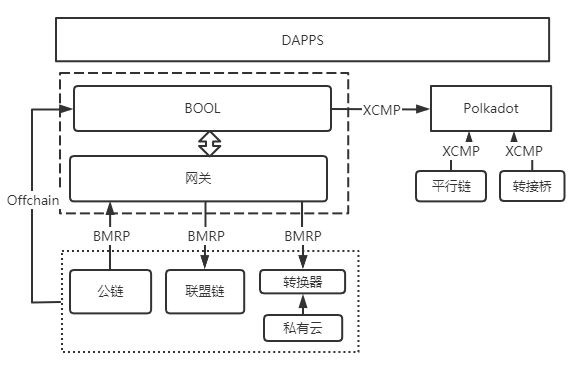
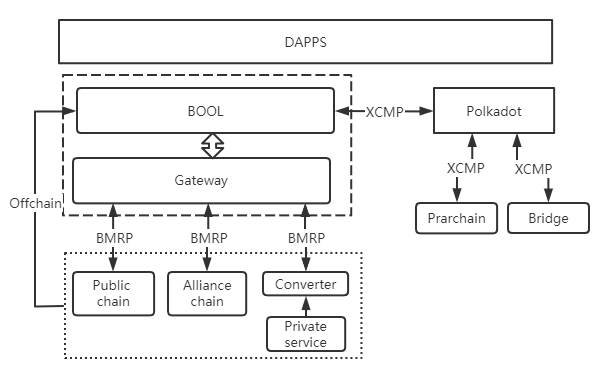
Improve

Changed region(s): [[0.0, 0.0293, 0.9965, 0.968]]

diff --git a/website/docs/introduction/tss.md b/website/docs/introduction/tss.md
@@ -4,7 +4,40 @@ title: Threshold Signature
 sidebar_label: Threshold Signature
 ---
 
-At present, there are two main modes in the cross chain scheme: light node and multi sign. The multi signature mode can effectively avoid the problems of too centralized authority and the project side doing evil. However, the multi signature scheme needs the support of chain virtual machine, which requires high requirements for the chain signature algorithm and poor universality. The scalability of light node mode is seriously insufficient. When multi chain and cross chain are involved, light nodes of corresponding chains need to be realized. Therefore, we introduce a threshold signature protocol to remedy the above defects.
+At present, there are two main modes in the cross-chain scheme: light node and multi sign. The multi signature mode can effectively avoid the problems of too centralized authority and the project side doing evil. However, the multi signature scheme needs the support of chain virtual machine, which requires high requirements for the chain signature algorithm and poor universality. The scalability of light node mode is seriously insufficient. When multi chain and cross-chain are involved, light nodes of corresponding chains need to be realized. Therefore, we introduce a threshold signature protocol to remedy the above defects.
 
-Threshold signature is a multi-party secure computing protocol, which is composed of threshold secret sharing technology and digital signature. Bool platform is a cross link gateway based on threshold signature protocol. How does token cross chain work on the platform? The relay chain selects a group of nodes to participate in secret sharing to generate shared private keys. The cross link behaviors of users on the sub chain are collected by the gateway and then routed to the target chain. The cross chain operation of token has two layers: mapping and redemption. Mapping can be understood as locking the token of sub chain on the public account, otherwise redemption is releasing the token on the public account. A simple AB heterogeneous chain token conversion process, cross chain events on a chain are monitored by the gateway, and the gateway forms a consensus and signs the event, and submits the event to the relay chain; on the relay chain, the operation logic of routing, verification and exchange will be automatically executed; finally, the events in the chain monitored by the gateway are submitted to the B chain after the internal consensus and signature.
+Threshold signature is a multi-party secure computing protocol, which is composed of threshold secret sharing technology and digital signature. BOOL Network platform is a cross-chain gateway based on threshold signature protocol. How does token cross-chain work on the platform? The relay chain selects a group of nodes to participate in secret sharing to generate shared private keys. The cross-chain behaviors of users on the sub-chain are collected by the gateway and then routed to the target chain. The cross-chain operation of token has two layers: mapping and redemption. Mapping can be understood as locking the token of sub-chain on the public account, otherwise redemption is releasing the token on the public account. A simple AB heterogeneous chain token conversion process, cross-chain events on a chain are monitored by the gateway, and the gateway forms a consensus and signs the event, and submits the event to the relay chain; on the relay chain, the operation logic of routing, verification and exchange will be automatically executed; finally, the events in the chain monitored by the gateway are submitted to the B chain after the internal consensus and signature.
 
+## Withdrawal mechanism
+
+The function of the threshold node is to save the private key, which determines the assets. We all know that threshold signature can implement (T, N) mode. There are n nodes in total. When the number of participating nodes is greater than T + 1, they can sign together. As the threshold node exits, it will inevitably reach a certain state, that is, it can not reach the minimum threshold T of the signature. We can think that the private key is lost, so the design of the threshold node exit mechanism is very careful.
+
+The ideal situation is that the threshold node will never exit, because of various force majeure, the so-called "ideal". When threshold nodes form a (T, N) set, theoretically, M (N-T-1) nodes are allowed to exit, so that the remaining nodes can ensure the normal operation of the algorithm. The more secure way is to transfer the production data to other threshold nodes and make the old production materials invalid. In this way, the number of threshold nodes in n set is maintained, and the **private key fragment transfer protocol** is designed. If node a exits, the algorithm randomly selects the threshold node B in the non-N set. Through the encryption channel, the private key of node a will be transferred to node B. after that, node a will no longer be selected as the signature node by the algorithm.
+
+Several states of threshold node:
+
+1. Offline status: the mortgage has been fined and there is no mortgage.
+
+2. Standby status: sufficient mortgage and no private key escrow.
+
+3. Operation status: sufficient mortgage and private key escrow.
+
+4. Exit status: the private key will no longer be assigned when applying for exit.
+
+The nodes in offline state and exit state will not be selected as signature nodes by the algorithm.
+
+## Key fragment transfer protocol
+
+Private key transfer protocol: node a wants to transfer the private key s to node B. A and B can first conduct a key exchange to suggest the same shared key K. then a uses a symmetric encryption algorithm AES to encrypt s, and then sends it to B. after getting the ciphertext, B uses the previously established shared key K to decrypt s.
+
+Specific agreement:
+
+1. Key exchange:
+
+Common parameter: P: large prime, integer set z = {2,3,4 P-2}, G: integers within Z.
+
+![keyExchangeStep1]()
+
+2. Using AES algorithm to transfer private key:
+
+![keyExchangeStep2]()

diff --git a/website/docs/introduction/main.md b/website/docs/introduction/main.md
@@ -4,9 +4,9 @@ title: Platform architecture
 sidebar_label: Platform architecture
 ---
 
-BOOL Network is a trustless and decentralized cross-chain gateway platform. It like a Oracle which combining threshold signature technology and blockchain technology. It is used to solve the cross chain problem of heterogeneous chain.
+BOOL Network is a trustless and decentralized cross-chain gateway platform. It like a Oracle which combining threshold signature technology and blockchain technology. It is used to solve the cross-chain problem of heterogeneous chain.
 
-Based on the cross chain requirements, a general inter chain message routing protocol, bmrp is designed(blockchain message router protocol) that aims to provide a unified cross chain message transmission specification, and eliminate the obstacles of cross chain message mutual authentication caused by different consensus algorithm, account structure and encryption mechanism.
+Based on the cross-chain requirements, a general inter chain message routing protocol, BMRP is designed(blockchain message router protocol) that aims to provide a unified cross-chain message transmission specification, and eliminate the obstacles of cross-chain message mutual authentication caused by different consensus algorithm, account structure and encryption mechanism.
 
 ![architecture](/img/architecture.png)
 
@@ -14,8 +14,8 @@ Based on the cross chain requirements, a general inter chain message routing pro
 
 * BOOL chain: responsible for on chain governance, threshold node maintenance, routing rule configuration, and sub-chain configuration. In order to ensure the safety of the chain, high availability should be taken into account.
 
-* Gateway: the core element of gateway bmrp, it is a component that adapts to multiple chains, and can collect data on various chains. It mainly maintains the external message order. It is composed of consensus component, acquisition component and threshold component. The collection component is composed of a general multi link library and a standard agent. The multi link library provides the ability to read and write different blockchain data, and is an essential tool for accessing Web3 services. The standard proxy library is to package the centralized service into a block chain like structure based on the public-private key management mechanism, so that it can access to the collection component.
+* Gateway: the core element of BMRP, it is a component that adapts to multiple chains, and can collect data on various chains. It mainly maintains the external message order. It is composed of consensus component, collection component and threshold component. The collection component is composed of a general multi-chain library and a standard agent. The multi-chain library provides the ability to read and write different blockchain data, and is an essential tool for accessing Web3 services. The standard proxy library is to package the centralized service into a block chain like structure based on the public-private key management mechanism, so that it can access to the collection component.
 
-* Sub-chain: a sub-chain is a blockchain registered on the relay chain. It can be a federation chain, a public chain, or even a centralized service after being accessed through a sub-chain converter. This is similar to cosmos.
+* Sub-chain: a sub-chain is a blockchain registered on the relay chain. It can be a federation chain, a public chain, or even a centralized service after being accessed through a sub-chain converter. This is similar to COSMOS.
 
 * Parachain: BOOL Network is developed on the basis of substrate framework, which is in the Polkadot system and can be used as parachain.

diff --git a/website/docs/introduction/node.md b/website/docs/introduction/node.md
@@ -4,12 +4,20 @@ title: Node type
 sidebar_label: Node Type
 ---
 
-There are three main contributors of blockchain data, i.e., the creation block, the external message and the internal transaction.
+There are three main contributors of blockchain data, i.e., the genesis block, the external message and the internal transaction.
 
-The whole node is used to record data, which can be regarded as a backup database. Its main responsibility is to synchronously verify the blocks produced by the node and execute external data. Users can query the current information or recent historical data through the whole node, deploy the whole node, and the application can directly interact with the whole node without the third-party infrastructure. In addition, the whole node can open the archive mode, that is, all the historical blocks and status trees are maintained. In the archive mode, all historical data from the creation block can be queried. For example, a block browser may query the historical data on the chain.
+## Full node
+
+The full node is used to record data, which can be regarded as a backup database. Its main responsibility is to synchronously verify the blocks produced by the node and execute external data. Users can query the current information or recent historical data through the full node. deploy the full node, and the application can directly interact with the full node without the third-party infrastructure. In addition, the full node can open the archive mode, that is, all the historical blocks and status trees are maintained. In the archive mode, all historical data from the genesis block can be queried. For example, a block browser may query the historical data on the chain.
+
+## Verification node
 
 The verification node is first a full node, which can verify all the information in the chain. Secondly, the verifier information is registered on the chain to participate in the consensus mechanism, which can produce blocks. All illegal behaviors will be punished to reduce the BOL of the verifier's mortgage; for the legal verifier, rewards will be given, and the verification node will accept the block reward and handling fee.
 
-The threshold node contains the function of the whole node. It needs to access the data on the chain and update the status under the chain in real time. Threshold node is an important element of high availability and high security gateway, and it is also the only entrance of external data link. The threshold nodes must be able to communicate with each other, which is the basis of the threshold signature algorithm. At the same time, it can access the sub chain information in real time, which can effectively identify malicious threshold nodes.
+## Threshold node
+
+The threshold node contains the function of the full node. It needs to access the data on the chain and update the status under the chain in real time. Threshold node is an important element of high availability and high security gateway, and it is also the only entrance of external data link. The threshold nodes must be able to communicate with each other, which is the basis of the threshold signature algorithm. At the same time, it can access the sub-chain information in real time, which can effectively identify malicious threshold nodes.
+
+## Light node
 
 Another type is light node. The light node only stores the current state and does not store historical information, so it cannot recover the complete chain from the creation block. Light nodes are used for special devices, such as mobile phones.

diff --git a/website/docs/introduction/bmrp.md b/website/docs/introduction/bmrp.md
@@ -4,15 +4,16 @@ title: Blockchain Message Router Protocol
 sidebar_label: Blockchain Message Router Protocol
 ---
 
-In the blockchain paradigm, asymmetric encryption is usually used to ensure the security of assets. Private key signature is required to modify the status on the blockchain. In the public chain architecture, in order to prevent DoS attacks, the cost mechanism is introduced. However, this brings about the difficulty of handling fee clearing caused by different asset values across message chains on different blockchains. Through the introduction of resource free trading mechanism, we can achieve real-time clearing of cross chain message costs, without human intervention, and system access to asset balance.
+In the blockchain paradigm, asymmetric encryption is usually used to ensure the security of assets. Private key signature is required to modify the status on the blockchain. In the public chain architecture, in order to prevent DoS attacks, the cost mechanism is introduced. However, this brings about the difficulty of handling fee clearing caused by different asset values across message chains on different chains. Through the introduction of resource free trading mechanism, we can achieve real-time clearing of cross-chain message costs, without human intervention, and system access to asset balance.
 
 At the same time, considering the difference of verification methods caused by different account book structure and encryption mechanism, we designed the following cross link protocol to facilitate the verification of relay chain.
 
 Protocol field:
+
 * `Version`:Protocol version.
 * `From`: Cross-chain message source gate.
 * `To`: Cross-chain message target gate.
 * `Action`: Operation content. like (name + params).  Should register in router.
     - `name` type: There are two type,The execution class is used to perform operations on the target chain; the asset class is used for asset swap.
 * `Timestamp`： the time when the message operation on the chain was generated.
-* `Fee`：<option> For this cross link message, the relay chain agent is allowed to deduct the cost. It consists of (account + amount).
+* `Fee`：<option> For this cross-chain message, the relay chain agent is allowed to deduct the cost. It consists of (account + amount).

diff --git a/website/docs/introduction/gateway.md b/website/docs/introduction/gateway.md
@@ -13,3 +13,30 @@ The gateway should meet the following functions:
 2. Forward the signed data to the corresponding blockchain;
 
 3. Support received and executed request status query on blockchain.
+
+
+![gatewayRouter](/img/gateway_router.png)
+
+The gateway is mainly composed of four parts: collection, routing rules, consensus algorithm and threshold signature. The consensus and signature module share the point-to-point communication protocol, and the collection module obtains the sub-chain information through RPC.
+
+A common message forwarding process is as follows:
+
+1) The collection module captures the sub-chain information M according to the configuration.
+
+2) M information is pushed to the routing module. The routing module parses and converts the M information, M -> N.
+
+3) N message is pushed to consensus and threshold signature module.
+
+4) Consensus module broadcast N message to nodes through Libp2p.
+
+5) Libp2p receives the broadcast information and returns it to the consensus module.
+
+6) After reaching a consensus on CN message, push it to the threshold signature module, N -> CN.
+
+7) The threshold signature module signs CN messages and broadcasts them through Libp2p.
+
+8) Libp2p returns the received distributed signature information to the threshold signature module.
+
+9) After several rounds of interaction, the final signature result is pushed to the acquisition module, CN -> SCN.
+
+10) The collection module links the signed information.

diff --git a/website/docs/economics/slash.md b/website/docs/economics/slash.md
@@ -4,6 +4,6 @@ title: Reward & Slash
 sidebar_label: Reward & Slash
 ---
 
-The reward and slash mechanism plays an important role in the long-term operation of the whole system. Boolnetwork reward sources mainly include verifier reward, which includes two parts: block out and verification; nominator reward, which is supported by mortgage token; private key management reward, obtained by maintaining TSS node. Among them, verifier reward and nominator reward follow polkadot NPOS mechanism, and private key management reward is proportional to the number of private keys maintained. 
+The reward and slash mechanism plays an important role in the long-term operation of the whole system. BOOL Network reward sources mainly include verifier reward, which includes two parts: block out and verification; nominator reward, which is supported by mortgage token; private key management reward, obtained by maintaining TSS node. Among them, verifier reward and nominator reward follow polkadot NPOS mechanism, and private key management reward is proportional to the number of private keys maintained.
 
 At the same time, it is necessary to punish dishonest nodes, including offline nodes and malicious nodes caused by network problems. When the system is available, honest nodes can jointly report untruthful nodes and punish them accordingly. In addition, individual nodes can be punished by the way of committee governance.

diff --git a/website/docs/design/modules.md b/website/docs/design/modules.md
@@ -6,3 +6,10 @@ sidebar_label: Modules
 
 ![modules](/img/modules.png)
 
+Gateway components can exist independently of bool chain. In an open network, honest threshold signature nodes need unified input to produce legal signatures. Therefore, it is necessary to make a consensus on the input information before signing.
+
+Blockchain is essentially a distributed database system, so it conforms to the CAP theorem. Bitcoin adopts the POW consensus algorithm. When a new block is accepted by some nodes, if the user visits the node that has not been updated, the data obtained by the user is inconsistent. Therefore, from the perspective of distributed data system, bitcoin blockchain system is an AP system, which is not applicable to the consensus of gateway.
+
+The BOOL chain uses babe + grandpa hybrid consensus algorithm, babe is responsible for the block, and grandpa is responsible for the final determination. After the final determination through the grandpa algorithm, it can be considered as a CP system. Therefore, the input information is uniformly signed by the gateway components after the consensus of BOOL chain.
+
+Gateway components can also be combined with Tendermint algorithm to ensure the consistency of messages.

diff --git a/website/docs/introduction/network.md b/website/docs/introduction/network.md
@@ -6,7 +6,7 @@ sidebar_label: Network Protocol
 
 The communication model of threshold signature is a key point to realize practical threshold system. The consensus protocols used in distributed systems need to consider the potential error channel. Therefore, when we discuss the distributed system, we must first define the communication settings, that is, the network model. A point-to-point network is formed between threshold nodes, which means that every message will be broadcast to each node in the network through the gossip protocol.
 
-Because transactions, signatures, and blocks are delivered in the protocol, it takes some time for messages to synchronize between participants. If messages can be arbitrarily delayed or even discarded, consensus protocols must take this into account.
+Because transactions, signatures, and blocks are delivered in the protocol, it takes some time for messages to synchronize between participants. If messages can be arbitrarily delayed or even discarded, Threshold signature protocol must take this into account.
 
 Therefore, the network model is set as follows:
 

diff --git a/website/docs/tools/sdk.md b/website/docs/tools/sdk.md
@@ -4,7 +4,7 @@ title: Integrated development kit
 sidebar_label: Integrated development kit
 ---
 
-There are still a few developers who are proficient in blockchain related programming languages. In order to lower the threshold of blockchain application development and make traditional Internet applications easily access to the boolnetwork platform, we provide an integrated development kit with the following functions.
+There are still a few developers who are proficient in blockchain related programming languages. In order to lower the threshold of blockchain application development and make traditional Internet applications easily access to the BOOL Network platform, we provide an integrated development kit with the following functions.
 
 1. Information acquisition of sub link and relay chain.
 

diff --git a/website/docs/economics/bool.md b/website/docs/economics/bool.md
@@ -6,7 +6,7 @@ sidebar_label: BOL
 
 ## What are BOL? 
 
-BOL is the native token of bool network, similar to eth of Ethereum.
+BOL is the native token of bool network, similar to ETH of Ethereum.
 
 ## BOOL Network
 
@@ -17,7 +17,7 @@ BOL is the native token of bool network, similar to eth of Ethereum.
 |Millibol (mBOL) |7             |
 |Bol (BOL)       |10            |
 
-## What are the uses of DOT?
+## What are the uses of BOL?
 
 1. To be be staked for operation.
 
